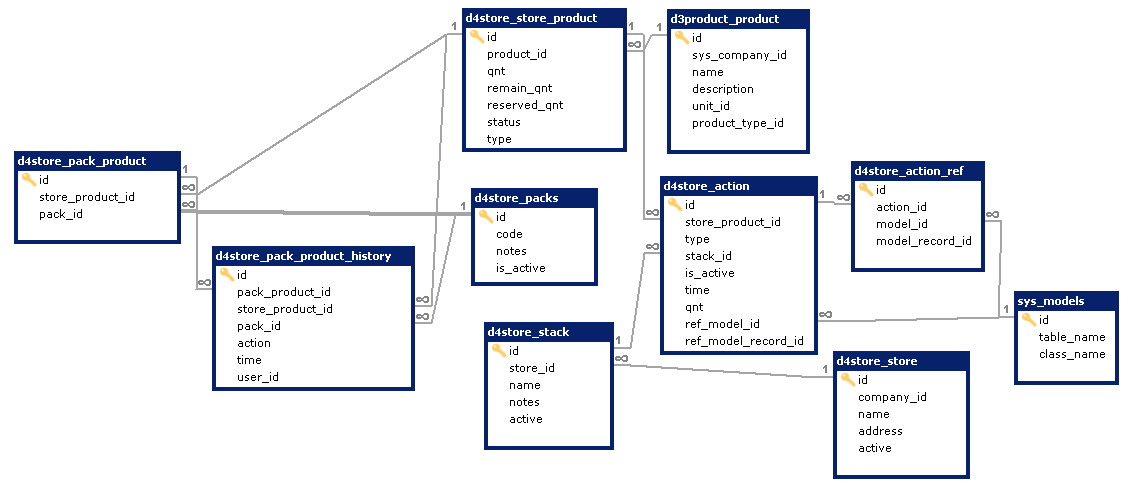
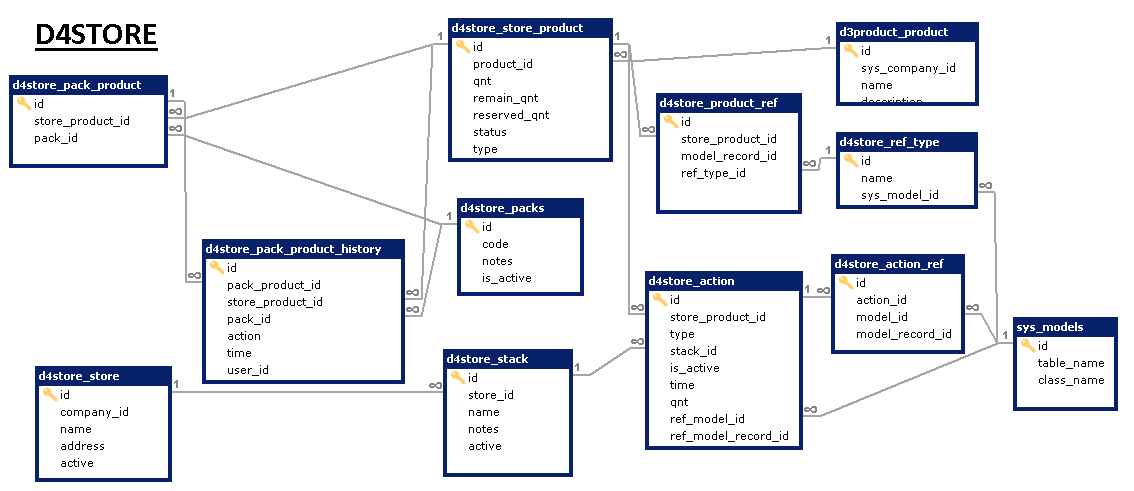
Added REF

diff --git a/models/base/D4StoreProductRef.php b/models/base/D4StoreProductRef.php
@@ -1,0 +1,88 @@
+<?php
+// This class was automatically generated by a giiant build task
+// You should not change it manually as it will be overwritten on next build
+
+namespace d4yii2\d4store\models\base;
+
+use Yii;
+
+/**
+ * This is the base-model class for table "d4store_product_ref".
+ *
+ * @property integer $id
+ * @property integer $store_product_id
+ * @property integer $model_record_id
+ * @property integer $ref_type_id
+ *
+ * @property \d4yii2\d4store\models\D4StoreRefType $refType
+ * @property \d4yii2\d4store\models\D4StoreStoreProduct $storeProduct
+ * @property string $aliasModel
+ */
+abstract class D4StoreProductRef extends \yii\db\ActiveRecord
+{
+
+
+
+    /**
+     * @inheritdoc
+     */
+    public static function tableName(): string
+    {
+        return 'd4store_product_ref';
+    }
+
+    /**
+     * @inheritdoc
+     */
+    public function rules()
+    {
+        return [
+            'required' => [['store_product_id', 'model_record_id', 'ref_type_id'], 'required'],
+            'tinyint Unsigned' => [['ref_type_id'],'integer' ,'min' => 0 ,'max' => 255],
+            'integer Unsigned' => [['id','store_product_id','model_record_id'],'integer' ,'min' => 0 ,'max' => 4294967295],
+            [['store_product_id'], 'exist', 'skipOnError' => true, 'targetClass' => \d4yii2\d4store\models\D4StoreStoreProduct::className(), 'targetAttribute' => ['store_product_id' => 'id']],
+            [['ref_type_id'], 'exist', 'skipOnError' => true, 'targetClass' => \d4yii2\d4store\models\D4StoreRefType::className(), 'targetAttribute' => ['ref_type_id' => 'id']]
+        ];
+    }
+
+    /**
+     * @inheritdoc
+     */
+    public function attributeLabels()
+    {
+        return [
+            'id' => Yii::t('d4store', 'ID'),
+            'store_product_id' => Yii::t('d4store', 'Store Product ID'),
+            'model_record_id' => Yii::t('d4store', 'Model Record ID'),
+            'ref_type_id' => Yii::t('d4store', 'Ref Type ID'),
+        ];
+    }
+
+    /**
+     * @return \yii\db\ActiveQuery
+     */
+    public function getRefType()
+    {
+        return $this->hasOne(\d4yii2\d4store\models\D4StoreRefType::className(), ['id' => 'ref_type_id'])->inverseOf('d4StoreProductRefs');
+    }
+
+    /**
+     * @return \yii\db\ActiveQuery
+     */
+    public function getStoreProduct()
+    {
+        return $this->hasOne(\d4yii2\d4store\models\D4StoreStoreProduct::className(), ['id' => 'store_product_id'])->inverseOf('d4StoreProductRefs');
+    }
+
+
+    
+    /**
+     * @inheritdoc
+     * @return \d4yii2\d4store\models\D4StoreProductRefQuery the active query used by this AR class.
+     */
+    public static function find()
+    {
+        return new \d4yii2\d4store\models\D4StoreProductRefQuery(get_called_class());
+    }
+
+}

diff --git a/models/base/D4StoreRefType.php b/models/base/D4StoreRefType.php
@@ -1,0 +1,86 @@
+<?php
+// This class was automatically generated by a giiant build task
+// You should not change it manually as it will be overwritten on next build
+
+namespace d4yii2\d4store\models\base;
+
+use Yii;
+
+/**
+ * This is the base-model class for table "d4store_ref_type".
+ *
+ * @property integer $id
+ * @property string $name
+ * @property integer $sys_model_id
+ *
+ * @property \d4yii2\d4store\models\D4StoreProductRef[] $d4StoreProductRefs
+ * @property \d4yii2\d4store\models\SysModels $sysModel
+ * @property string $aliasModel
+ */
+abstract class D4StoreRefType extends \yii\db\ActiveRecord
+{
+
+
+
+    /**
+     * @inheritdoc
+     */
+    public static function tableName(): string
+    {
+        return 'd4store_ref_type';
+    }
+
+    /**
+     * @inheritdoc
+     */
+    public function rules()
+    {
+        return [
+            'required' => [['id', 'name', 'sys_model_id'], 'required'],
+            'tinyint Unsigned' => [['id','sys_model_id'],'integer' ,'min' => 0 ,'max' => 255],
+            [['name'], 'string', 'max' => 20],
+            [['id'], 'unique'],
+            [['sys_model_id'], 'exist', 'skipOnError' => true, 'targetClass' => \d4yii2\d4store\models\SysModels::className(), 'targetAttribute' => ['sys_model_id' => 'id']]
+        ];
+    }
+
+    /**
+     * @inheritdoc
+     */
+    public function attributeLabels()
+    {
+        return [
+            'id' => Yii::t('d4store', 'ID'),
+            'name' => Yii::t('d4store', 'Name'),
+            'sys_model_id' => Yii::t('d4store', 'Sys Model ID'),
+        ];
+    }
+
+    /**
+     * @return \yii\db\ActiveQuery
+     */
+    public function getD4StoreProductRefs()
+    {
+        return $this->hasMany(\d4yii2\d4store\models\D4StoreProductRef::className(), ['ref_type_id' => 'id'])->inverseOf('refType');
+    }
+
+    /**
+     * @return \yii\db\ActiveQuery
+     */
+    public function getSysModel()
+    {
+        return $this->hasOne(\d4yii2\d4store\models\SysModels::className(), ['id' => 'sys_model_id'])->inverseOf('d4storeRefTypes');
+    }
+
+
+    
+    /**
+     * @inheritdoc
+     * @return \d4yii2\d4store\models\D4StoreRefTypeQuery the active query used by this AR class.
+     */
+    public static function find()
+    {
+        return new \d4yii2\d4store\models\D4StoreRefTypeQuery(get_called_class());
+    }
+
+}

diff --git a/models/D4StoreStoreProduct.php b/models/D4StoreStoreProduct.php
@@ -2,6 +2,7 @@
 
 namespace d4yii2\d4store\models;
 
+use d3system\exceptions\D3ActiveRecordException;
 use d3yii2\d3product\dictionaries\D3productUnitDictionary;
 use d3system\dictionaries\SysModelsDictionary;
 use d4yii2\d4store\models\base\D4StoreStoreProduct as BaseD4StoreStoreProduct;
@@ -125,5 +126,22 @@ class D4StoreStoreProduct extends BaseD4StoreStoreProduct
     public function getUnitLabel(): ?string
     {
         return D3productUnitDictionary::getLabel(Yii::$app->SysCmp->getActiveCompanyId(), $this->product->unit_id);
+    }
+
+    /**
+     * @param int $refTypeId
+     * @param int $recordId
+     * @return void
+     * @throws \d3system\exceptions\D3ActiveRecordException
+     */
+    public function addRef(int $refTypeId, int $recordId): void
+    {
+        $ref = new D4StoreProductRef();
+        $ref->store_product_id = $this->id;
+        $ref->model_record_id = $recordId;
+        $ref->ref_type_id = $refTypeId;
+        if (!$ref->save()) {
+            throw new D3ActiveRecordException($ref);
+        }
     }
 }

diff --git a/models/base/D4StoreStoreProduct.php b/models/base/D4StoreStoreProduct.php
@@ -20,6 +20,7 @@ use Yii;
  * @property \d4yii2\d4store\models\D4StoreAction[] $d4StoreActions
  * @property \d4yii2\d4store\models\D4StorePackProductHistory[] $d4StorePackProductHistories
  * @property \d4yii2\d4store\models\D4StorePackProduct[] $d4StorePackProducts
+ * @property \d4yii2\d4store\models\D4StoreProductRef[] $d4StoreProductRefs
  * @property \d4yii2\d4store\models\D3productProduct $product
  * @property string $aliasModel
  */
@@ -110,6 +111,14 @@ abstract class D4StoreStoreProduct extends \yii\db\ActiveRecord
     public function getD4StorePackProducts()
     {
         return $this->hasMany(\d4yii2\d4store\models\D4StorePackProduct::className(), ['store_product_id' => 'id'])->inverseOf('storeProduct');
+    }
+
+    /**
+     * @return \yii\db\ActiveQuery
+     */
+    public function getD4StoreProductRefs()
+    {
+        return $this->hasMany(\d4yii2\d4store\models\D4StoreProductRef::className(), ['store_product_id' => 'id'])->inverseOf('storeProduct');
     }
 
     /**

diff --git a/models/D4StoreProductRef.php b/models/D4StoreProductRef.php
@@ -1,0 +1,13 @@
+<?php
+
+namespace d4yii2\d4store\models;
+
+use d4yii2\d4store\models\base\D4StoreProductRef as BaseD4StoreProductRef;
+
+/**
+ * This is the model class for table "d4store_product_ref".
+ */
+class D4StoreProductRef extends BaseD4StoreProductRef
+{
+
+}

diff --git a/models/D4StoreProductRefQuery.php b/models/D4StoreProductRefQuery.php
@@ -1,0 +1,15 @@
+<?php
+
+namespace d4yii2\d4store\models;
+
+use d3system\yii2\db\D3ActiveQuery;
+
+/**
+ * This is the ActiveQuery class for [[D4StoreProductRef]].
+ *
+ * @see D4StoreProductRef
+ */
+class D4StoreProductRefQuery extends D3ActiveQuery
+{
+
+}

diff --git a/models/D4StoreRefType.php b/models/D4StoreRefType.php
@@ -1,0 +1,13 @@
+<?php
+
+namespace d4yii2\d4store\models;
+
+use d4yii2\d4store\models\base\D4StoreRefType as BaseD4StoreRefType;
+
+/**
+ * This is the model class for table "d4store_ref_type".
+ */
+class D4StoreRefType extends BaseD4StoreRefType
+{
+
+}

diff --git a/models/D4StoreRefTypeQuery.php b/models/D4StoreRefTypeQuery.php
@@ -1,0 +1,15 @@
+<?php
+
+namespace d4yii2\d4store\models;
+
+use d3system\yii2\db\D3ActiveQuery;
+
+/**
+ * This is the ActiveQuery class for [[D4StoreRefType]].
+ *
+ * @see D4StoreRefType
+ */
+class D4StoreRefTypeQuery extends D3ActiveQuery
+{
+
+}
